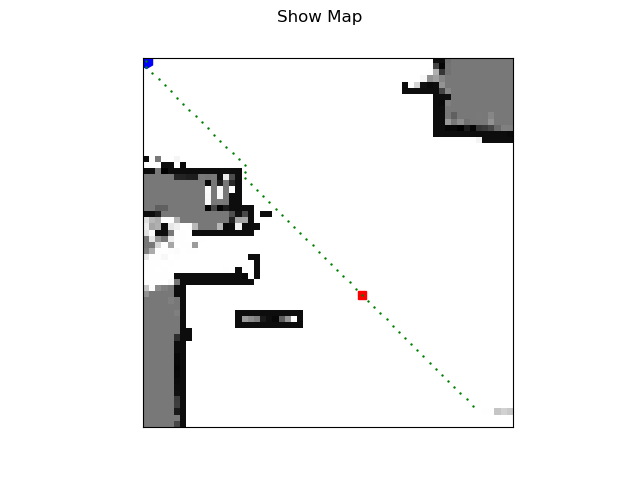
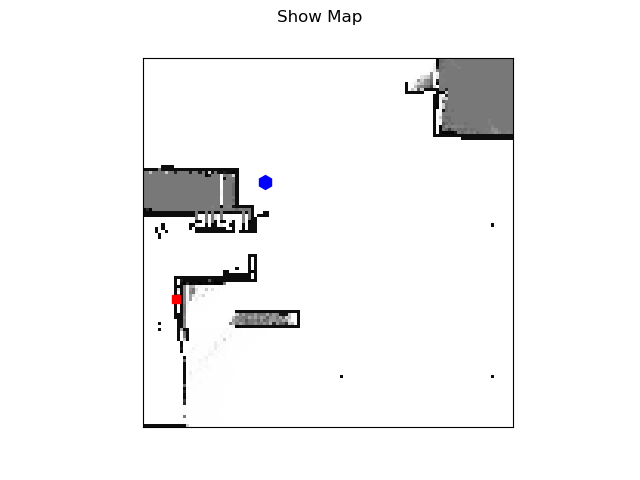
Fix sync problem

diff --git a/src/mapper_main.py b/src/mapper_main.py
@@ -86,7 +86,7 @@ def show_map_job(q_sm, width, height, q_showmap_path):
         #expanded_map = occupancy_map.navigation_map()
         show_map.updateMap(occupancy_map.grid, laser_model.p_max, robot_cell[0], robot_cell[1], goal_point, path)
 
-def path_planner_job(q_path_in, q_showmap_path, mrds_url):
+def path_planner_job(q_path_in, q_showmap_path, mrds_url, starting_pos):
     while True:
         occupancy_map, robot_cell = q_path_in.get()
         while not q_path_in.empty():
@@ -94,7 +94,7 @@ def path_planner_job(q_path_in, q_showmap_path, mrds_url):
 
         logger.info("Finding goal point")
         planner = GoalPlanner(occupancy_map.navigation_map())
-        goal_point = (0, 0)
+        goal_point = starting_pos
         p = planner.closest_frontier_centroid(robot_cell)
         if p is not None:
             goal_point = p
@@ -138,7 +138,7 @@ def path_planner_job(q_path_in, q_showmap_path, mrds_url):
             goFast(new_path, mrds_url)
 
 if __name__ == '__main__':
-    scale = 1
+    scale = 2
     laser_max_distance = 40
 
     if len(argv) == 6:
@@ -169,6 +169,7 @@ if __name__ == '__main__':
 
     pos, rot = controller.get_pos_and_orientation()
     robot_cell = occupancy_map.convert_to_grid_indexes(pos.x, pos.y)
+    starting_pos = robot_cell
 
     q_sm = Queue()
     q_path_in = Queue()
@@ -178,7 +179,7 @@ if __name__ == '__main__':
     p1 = Process(target=show_map_job, args=(q_sm, scale * width, scale * height, q_showmap_path,))
     p1.daemon = False
     p1.start()
-    p2 = Process(target=path_planner_job, args=(q_path_in, q_showmap_path,mrds_url,))
+    p2 = Process(target=path_planner_job, args=(q_path_in, q_showmap_path,mrds_url, starting_pos,))
     p2.daemon = False
     p2.start()
 
@@ -189,7 +190,8 @@ if __name__ == '__main__':
         laser_model.apply_model(occupancy_map, pos, rot, laser_scan)
         robot_cell = occupancy_map.convert_to_grid_indexes(pos.x, pos.y)
 
-        q_sm.put([occupancy_map, laser_model, robot_cell])
+        if q_sm.empty():
+            q_sm.put([occupancy_map, laser_model, robot_cell])
         while not q_path_in.empty():
             q_path_in.get()
         q_path_in.put([occupancy_map, robot_cell])

diff --git a/src/controller/robotrunner_v2.py b/src/controller/robotrunner_v2.py
@@ -214,9 +214,9 @@ def setSpeedAndAvoidObstacles(mrds_url, pose, lsr, lsrAngles, angularSpeed, line
         if lsr[i] < 0.4:
             blocked = True
             if i < goalAngleIdx:
-                angularSpeed += 1.5
+                angularSpeed += 0.5
             else:
-                angularSpeed -= 1.5
+                angularSpeed -= 0.5
             linearSpeed -= -0.7
             break;
 
@@ -224,8 +224,8 @@ def setSpeedAndAvoidObstacles(mrds_url, pose, lsr, lsrAngles, angularSpeed, line
         postSpeed(mrds_url, 0, 0)
         time.sleep(0.5)
         #go reverse and plan again
-        postSpeed(mrds_url, angularSpeed, -1.0)
-        time.sleep(1)
+        postSpeed(mrds_url, angularSpeed, -0.5)
+        time.sleep(2)
         return True
     postSpeed(mrds_url, angularSpeed, linearSpeed)
 
